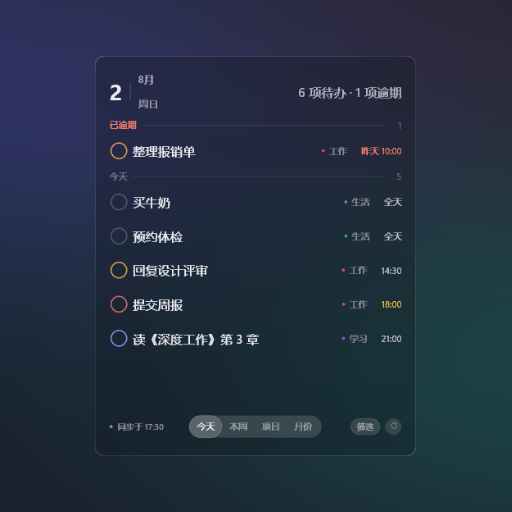
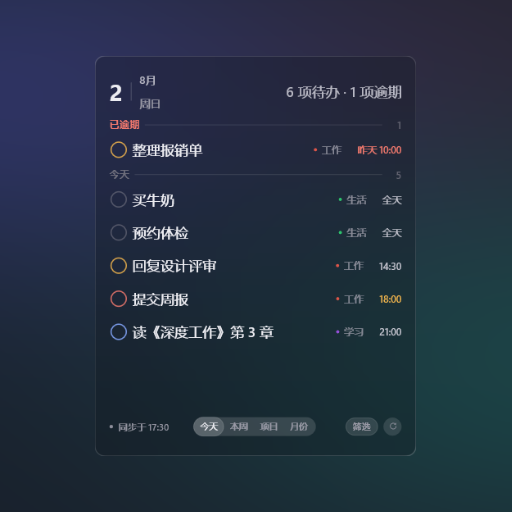
Larger row type, clearer date/title hierarchy (1.0.1)

diff --git a/CHANGELOG.md b/CHANGELOG.md
@@ -2,6 +2,14 @@
 
 本组件遵循 [语义化版本](https://semver.org/lang/zh-CN/)。
 
+## 1.0.1 — 2026-11-15
+
+### 外观
+
+- 行内字号整体上调：任务标题约 +9%，日期 / 时间约 +18%，并让日期稳定落在标题的 0.76 倍，标题重新成为视觉主体。
+- 分组标题、头部「月 / 周日」小字、紧凑状态条同步放大。
+- 全部预览图按新字号重新渲染。
+
 ## 1.0.0 — 2026-11-15
 
 首个公开版本。
